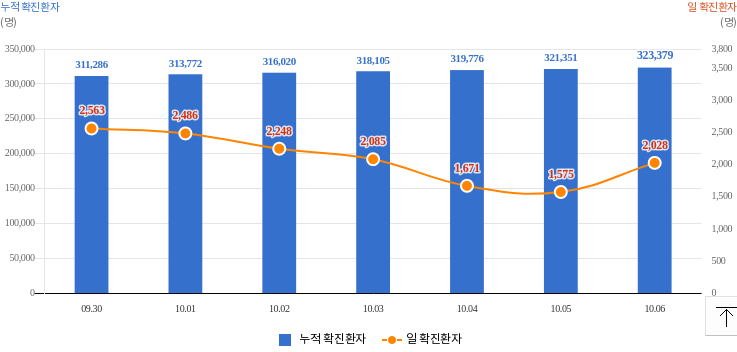
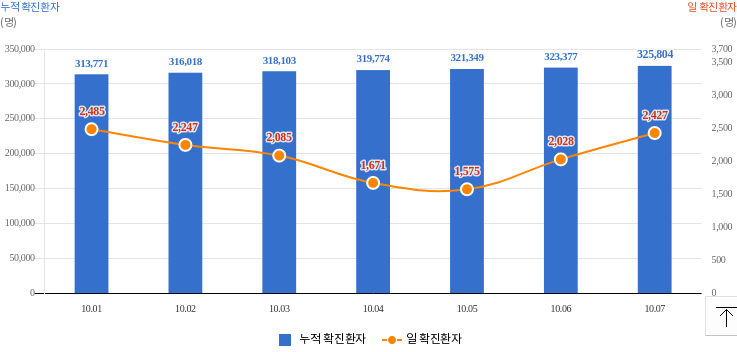
Run crawler and update current data

diff --git a/data.js b/data.js
@@ -7,7 +7,7 @@ var 검사중 = '2,121';
 var 검사결과 = '458,381';
 var 자가격리자 = '519';
 var 거리두기단계 = '사회적 거리두기  3단계 시행 : 2021.10.4.(월) 0시 ~ 10.17.(일) 24시';
-var 국내발생 = '2,002';
-var 해외발생 = '26';
-var 합계 = '2028';
+var 국내발생 = '2,400';
+var 해외발생 = '27';
+var 합계 = '2427';
 var data = [];
